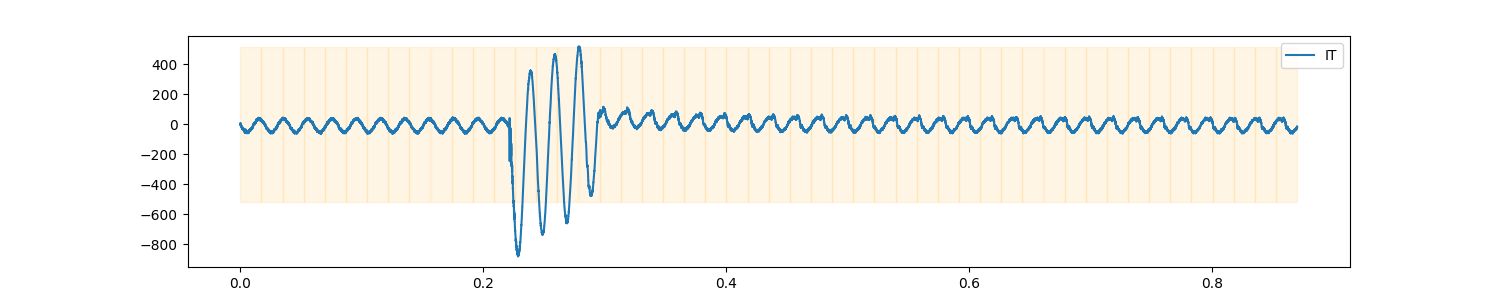
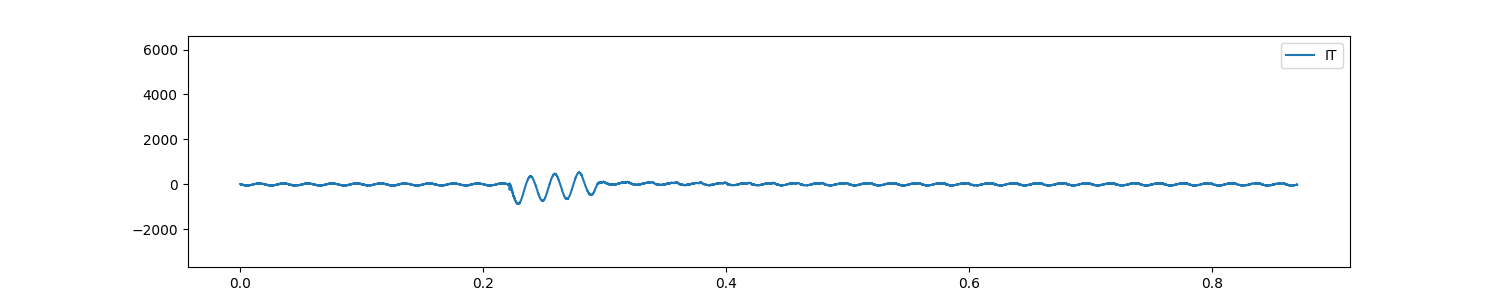
tambahan

diff --git a/standardanalysis.py b/standardanalysis.py
@@ -172,6 +172,12 @@ def analyze(df):
         df_temp["N_IS"] = get_normal_2(df["IS"])
         df_temp["N_IT"] = get_normal_2(df["IT"])
 
+        v_max = np.max(np.hstack((df_temp["VR"],df_temp["VS"],df_temp["VT"],df_temp["N_VR"],df_temp["N_VS"],df_temp["N_VT"])))
+        v_min = np.min(np.hstack((df_temp["VR"],df_temp["VS"],df_temp["VT"],df_temp["N_VR"],df_temp["N_VS"],df_temp["N_VT"])))
+        
+        i_max = np.max(np.hstack((df_temp["IR"],df_temp["IS"],df_temp["IT"],df_temp["N_IR"],df_temp["N_IS"],df_temp["N_IT"])))
+        i_min = np.min(np.hstack((df_temp["IR"],df_temp["IS"],df_temp["IT"],df_temp["N_IR"],df_temp["N_IS"],df_temp["N_IT"])))
+
         for i in ["VR", "VS", "VT", "IR", "IS", "IT"]:
 
             fs = df_temp[i]
@@ -215,19 +221,28 @@ def analyze(df):
                 result.append(i+" is normal.")
                 # print("Line "+i+" is normal.")
             try:
-                maxh = np.max(fs)
-                minh = np.abs(np.min(fs))
-                if maxh > minh:
-                    maxh = minh
+                # maxh = np.max(fs)
+                # minh = np.abs(np.min(fs))
+                # if maxh > minh:
+                #     maxh = minh
                 plt.plot(df.TIME, fs, label=i)
-                if len(x1) > 0:
-                    for ii in range(0,len(x1)):
-                        # print(x1[ii],x2[ii])
-                        plt.fill_betweenx(x1=df.TIME[x1[ii]],
-                                        x2=df.TIME[x2[ii]], y=[-1*maxh, maxh], alpha=0.1, color='orange')
                 # plt.plot(df.TIME, ns, label='N_'+i)
                 plt.legend()
                 # plt.show()
+                if i[0] == "V":
+                    plt.ylim([v_min*1.1, v_max*1.1])
+                    if len(x1) > 0:
+                        for ii in range(0,len(x1)):
+                            # print(x1[ii],x2[ii])
+                            plt.fill_betweenx(x1=df.TIME[x1[ii]],
+                                            x2=df.TIME[x2[ii]], y=[v_min, v_max], alpha=0.1, color='orange')
+                elif i[0] == "I":
+                    plt.ylim([i_min*1.1, i_max*1.1])
+                    # if len(x1) > 0:
+                    #     for ii in range(0,len(x1)):
+                    #         # print(x1[ii],x2[ii])
+                    #         plt.fill_betweenx(x1=df.TIME[x1[ii]],
+                    #                         x2=df.TIME[x2[ii]], y=[i_min, i_max], alpha=0.1, color='orange')
                 plt.savefig("static/"+i+".png")
                 plt.clf()
             except:
